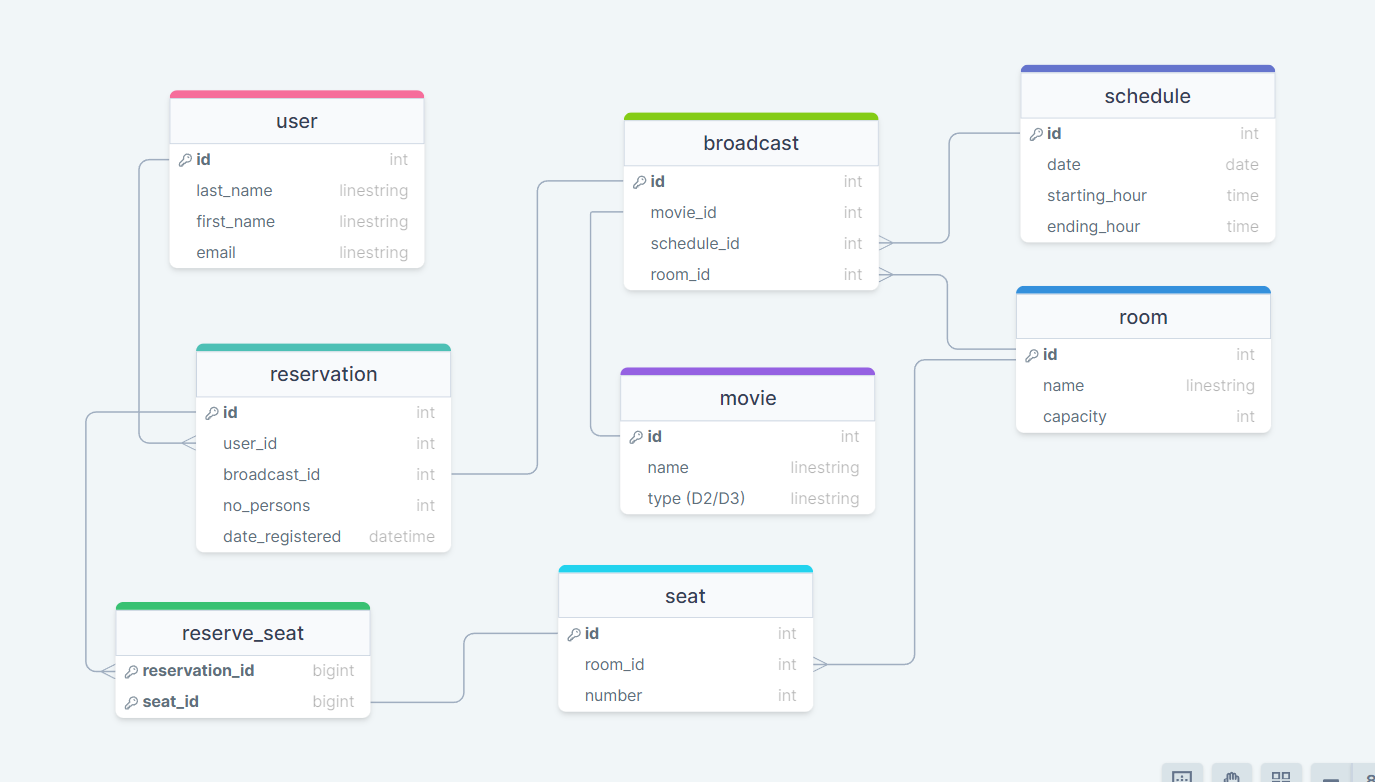
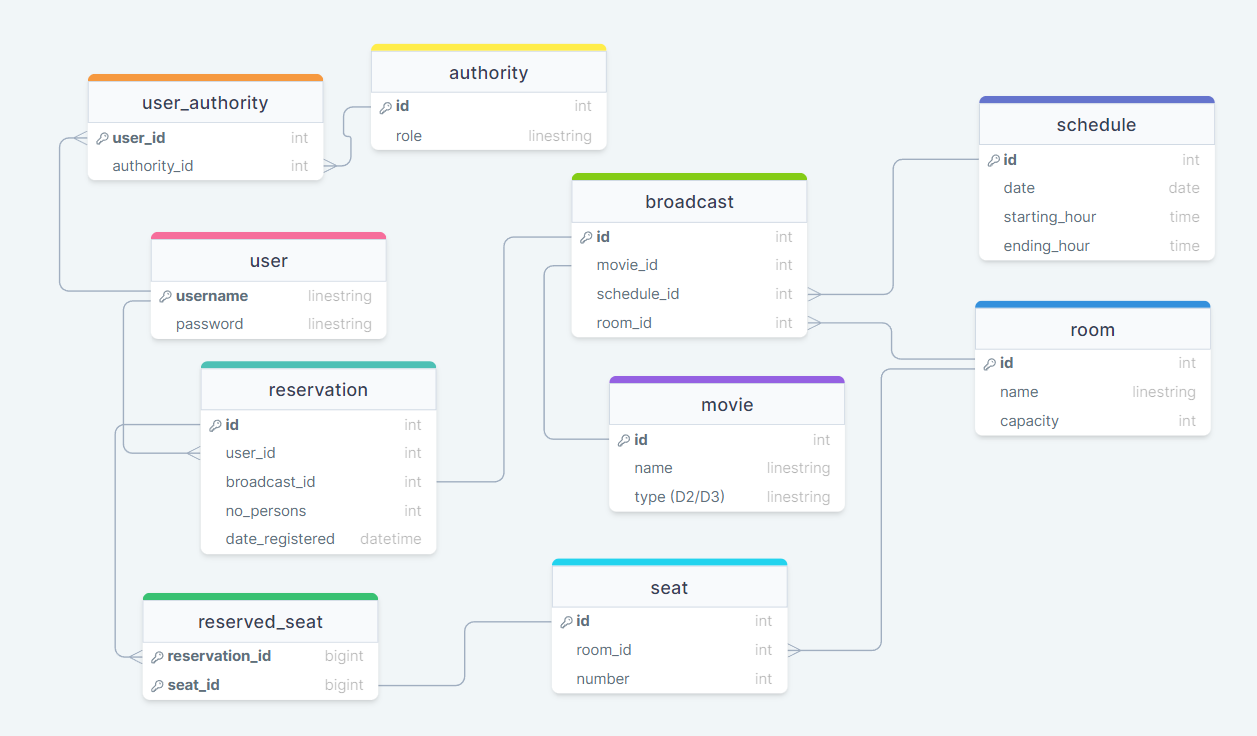
Pagination and sorting

diff --git a/src/main/resources/templates/main.html b/src/main/resources/templates/main.html
@@ -32,7 +32,7 @@
                      <a class="btn btn-primary" href="/reservations/addReservation" >Make a reservation</a>
                      <a class="btn btn-primary" href="/movies/addMovie" >Add a movie (admins only)</a>
                    
-                  <h3>Movie list</h3>
+                  <h3>Movie list (sorted by name)</h3>
                   <div th:switch="${movies}" class="container my-5">
                      <div class="col-md-10">
                         <h2 th:case="null">No movies yet!</h2>

diff --git a/target/classes/templates/main.html b/target/classes/templates/main.html
@@ -32,7 +32,7 @@
                      <a class="btn btn-primary" href="/reservations/addReservation" >Make a reservation</a>
                      <a class="btn btn-primary" href="/movies/addMovie" >Add a movie (admins only)</a>
                    
-                  <h3>Movie list</h3>
+                  <h3>Movie list (sorted by name)</h3>
                   <div th:switch="${movies}" class="container my-5">
                      <div class="col-md-10">
                         <h2 th:case="null">No movies yet!</h2>

diff --git a/src/main/java/com/backend/cinema/controllers/MainController.java b/src/main/java/com/backend/cinema/controllers/MainController.java
@@ -1,5 +1,8 @@
 package com.backend.cinema.controllers;
 
+import java.util.ArrayList;
+import java.util.List;
+
 import org.springframework.beans.factory.annotation.Autowired;
 import org.springframework.security.authentication.AnonymousAuthenticationToken;
 import org.springframework.security.core.Authentication;
@@ -17,6 +20,10 @@ import com.backend.cinema.repositories.ReservationRepository;
 import com.backend.cinema.repositories.ScheduleRepository;
 import com.backend.cinema.repositories.security.UserRepository;
 import com.backend.cinema.services.ReservationService;
+
+import com.backend.cinema.domain.Movie;
+
+import org.springframework.data.domain.Sort;
 
 @Controller
 public class MainController {
@@ -68,7 +75,11 @@ public class MainController {
 
 		model.addAttribute("user", scheduleRepository.findAll());
 		model.addAttribute("broadcasts", broadcastRepository.findAll());
-		model.addAttribute("movies", movieRepository.findAll());
+		
+		List<Movie> movies = new ArrayList<>();
+		movieRepository.findAll(Sort.by("name")).iterator().forEachRemaining(movies::add);
+		model.addAttribute("movies", movies);
+		
 		model.addAttribute("currentUser", username);
 
 		if (username != null && !userRepository.findByUsername(username).isEmpty()) {
@@ -93,7 +104,11 @@ public class MainController {
 
 		model.addAttribute("user", scheduleRepository.findAll());
 		model.addAttribute("broadcasts", broadcastRepository.findAll());
-		model.addAttribute("movies", movieRepository.findAll());
+		
+		List<Movie> movies = new ArrayList<>();
+		movieRepository.findAll(Sort.by("name")).iterator().forEachRemaining(movies::add);
+		model.addAttribute("movies", movies);
+		
 		model.addAttribute("currentUser", username);
 
 		if (username != null && !userRepository.findByUsername(username).isEmpty()) {

diff --git a/src/main/java/com/backend/cinema/repositories/MovieRepository.java b/src/main/java/com/backend/cinema/repositories/MovieRepository.java
@@ -1,11 +1,11 @@
 package com.backend.cinema.repositories;
 
-import org.springframework.data.jpa.repository.JpaRepository;
+import org.springframework.data.repository.PagingAndSortingRepository;
 import org.springframework.stereotype.Repository;
 
 import com.backend.cinema.domain.Movie;
 
 @Repository
-public interface MovieRepository extends JpaRepository<Movie, Integer>{ 
+public interface MovieRepository extends PagingAndSortingRepository <Movie, Integer>{ 
 
 }

diff --git a/README.md b/README.md
@@ -5,7 +5,7 @@ Documentatie
 ![DB schema](https://github.com/DimaOanaTeodora/Cinema-Management-Backend/blob/main/DB.png?raw=true)
 
 ## Aplicația va îndeplini cerințele următoare.
-1. Vor fi create relații între entități de toate tipurile: @OneToOne, @OneToMany, @ManyToOne, @ManyToMany.
+:white_check_mark: Vor fi create relații între entități de toate tipurile: @OneToOne, @OneToMany, @ManyToOne, @ManyToMany.
 
    @OneToOne 
    - Reservation - Broadcast
@@ -25,8 +25,9 @@ Documentatie
   
    @ManyToMany
    - Reservation - Seat (reserved_seat)
+   - User - Authority (user_authority)
 
-2. Vor fi implementate toate tipurile de operații CRUD.
+:white_check_mark: Vor fi implementate toate tipurile de operații CRUD.
 ### CREATE
 	- (Admins only)Adaugare film la lista de filme
 	- (Admins only) Adaugare programare film(broadcast) la o anumita data, ora, intr-o anumita sala
@@ -42,11 +43,11 @@ Documentatie
 ### DELETE
     - Anularea unei rezervari
    
-3. Se va testa aplicația folosindu-se profiluri și două baze de date diferite, una dintre ele pentru etapa de testare. Se poate utiliza și o bază de date in-memory (H2).
+:ballot_box_with_check: Se va testa aplicația folosindu-se profiluri și două baze de date diferite, una dintre ele pentru etapa de testare. Se poate utiliza și o bază de date in-memory (H2).
    
-4. Utilizare unit-tests/integration tests.
+:ballot_box_with_check: Utilizare unit-tests/integration tests.
    
-5. Se vor valida datele din formulare, se vor trata excepțiile.
+:white_check_mark: Se vor valida datele din formulare, se vor trata excepțiile.
    - Validare date formular - la adaugarea unui film, validarea numelui
   ```Java
   public class Movie {
@@ -92,7 +93,7 @@ public class BroadcastController {
 
 }
 ```
-1. Se vor utiliza log-uri. Opțional aspecte.
+:white_check_mark: Se vor utiliza log-uri. Opțional aspecte.
 ```
 2023-04-22 23:14:40.790  INFO 9848 --- [nio-8080-exec-6] c.b.cinema.configuration.LoggingAspect   : aspect log after List com.backend.cinema.services.ReservationServiceImpl.getAllReservationsByUsername(String)
 2023-04-22 23:14:40.790  INFO 9848 --- [nio-8080-exec-6] c.b.cinema.configuration.LoggingAspect   : aspect log after ModelAndView com.backend.cinema.controllers.MainController.getHome(Model)
@@ -121,8 +122,38 @@ public class LoggingAspect {
 	...
 }
 ```
-1. For fi utilizate opțiuni de paginarea și sortarea a datelor.
-2. Se va include Spring Security (cerința minima autentificare jdbc).
+:white_check_mark: Vor fi utilizate opțiuni de paginarea și sortarea a datelor.
+- Afisarea filmelor in pagina principala ordonate alfabetic dupa nume
+```Java
+@Repository
+public interface MovieRepository extends PagingAndSortingRepository <Movie, Integer>{ 
+
+}
+```
+```Java
+@Controller
+public class MainController {
+	...
+	
+	@Log
+	@GetMapping("/main")
+	public String showMainPage(Model model) {
+		...
+		
+		List<Movie> movies = new ArrayList<>();
+		movieRepository.findAll(Sort.by("name")).iterator().forEachRemaining(movies::add);
+		model.addAttribute("movies", movies);
+		
+		...
+
+		return "main";
+	}
+
+	...
+}
+```
+   
+:white_check_mark: Se va include Spring Security (cerința minima autentificare jdbc).
 - Sistem de login si inregistrare
   ```html
    <body>
